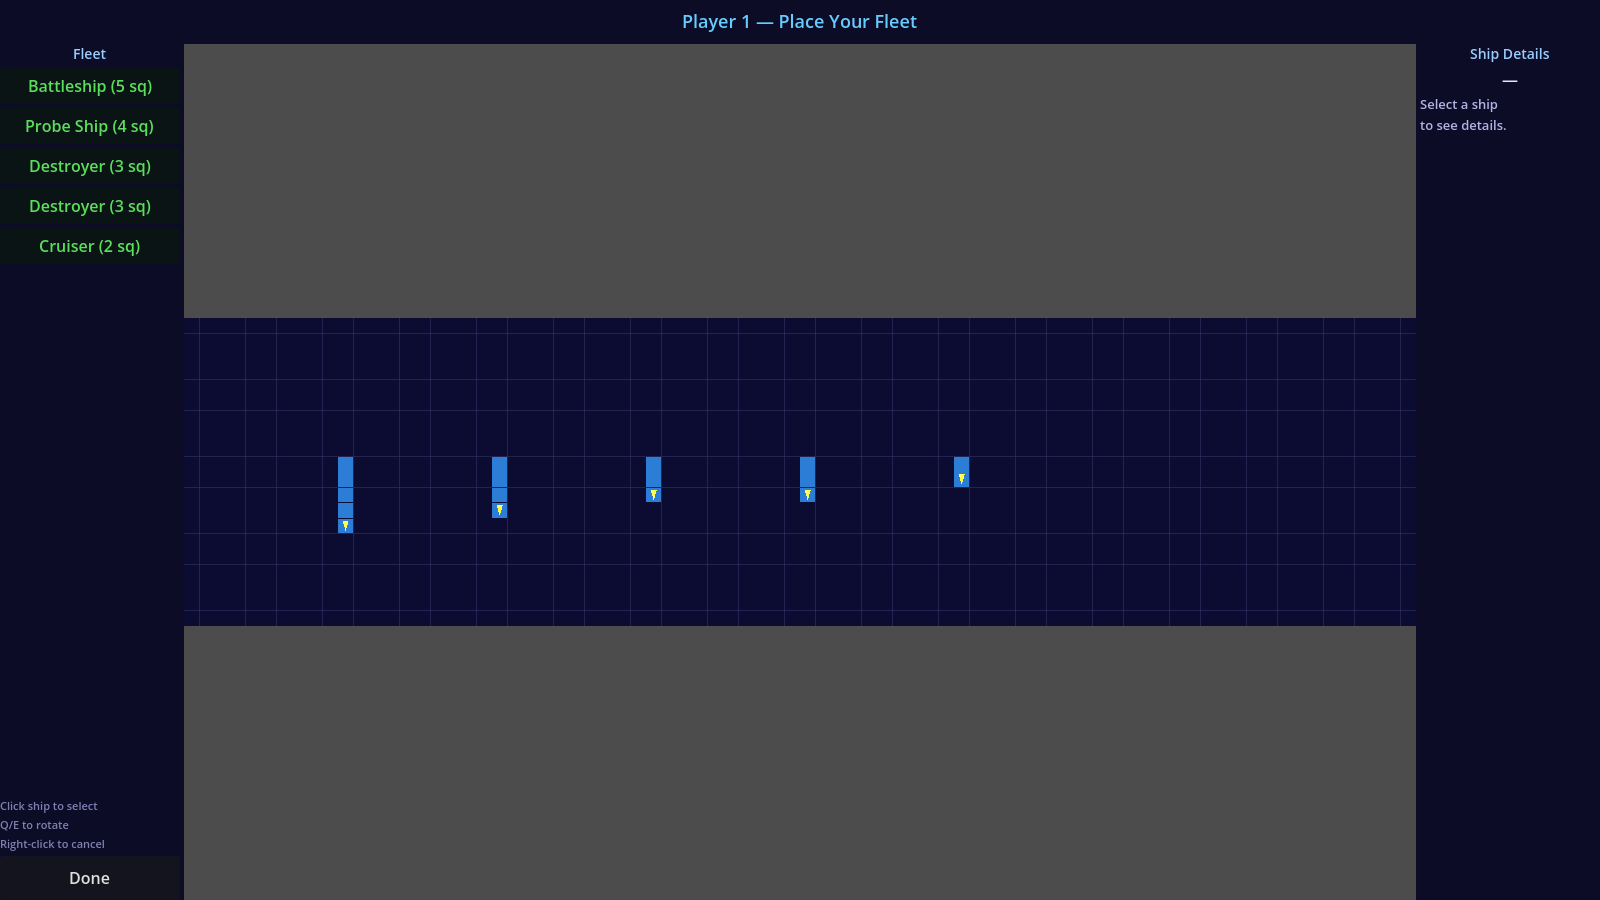
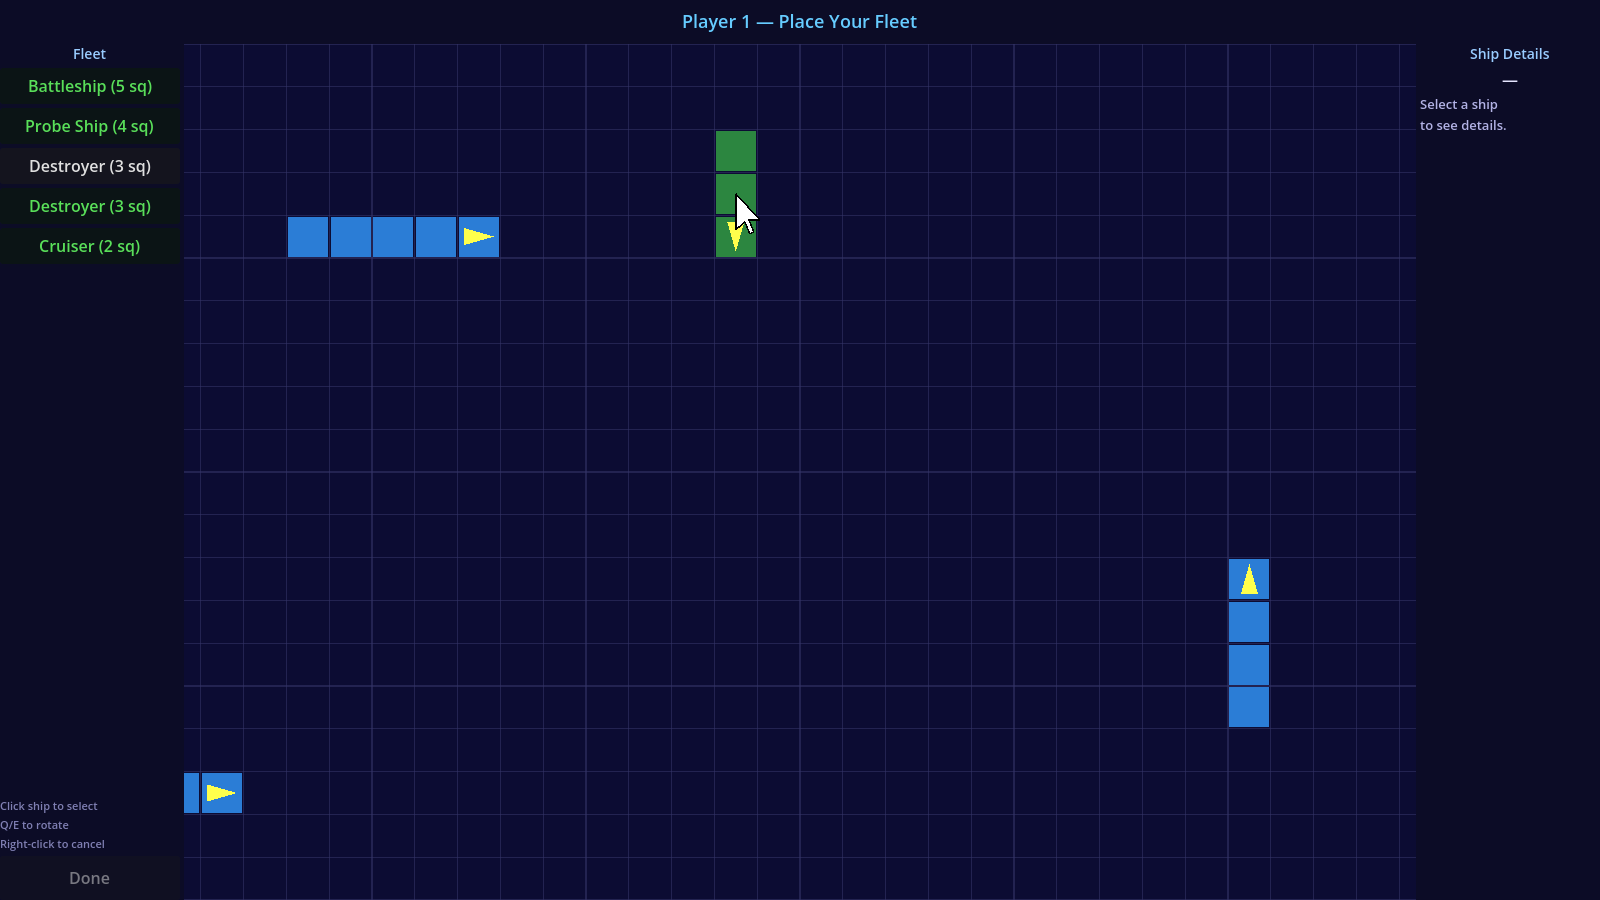
Polish How to Play pages 1-2 and add true-wrap infrastructure
Finalize the voice pass on Welcome and Place Your Fleet pages in the
Gallows Deadpan register. Replace the paged overlay's stacked
RichTextLabel layout with a custom TextWrap Control that word-wraps text
around a top-right image (Godot's RichTextLabel does not support
float-style wrap natively). Image sits at 560x315 with 16px padding.

Refresh the fleet-placement screenshot with a scattered fleet, varied
facings, zoomed-in camera, an authentic green-ghost preview for the
unplaced destroyer, and a baked-in mouse cursor sprite so the shot
reads as "in the process of placing." Screenshot runner helpers
(_screen_pos_of_grid_cell, _add_cursor_overlay, _ship_center_cell)
keep the overlay reproducible across future capture passes.

Add docs/writing-voice.md capturing the Gallows Deadpan voice profile
for Grammarly and future copy work.

diff --git a/docs/writing-voice.md b/docs/writing-voice.md
@@ -1,0 +1,41 @@
+# Writing Voice — Battlestations: Nebula
+
+Companion to `WRITING-STYLE.md`. That file covers mechanical rules (banned words, em dashes, voice rules). This file covers tone, character, and register for in-game and marketing copy.
+
+## Name
+
+**Gallows Deadpan**
+
+## Description
+
+Irreverent, chaotic, and dark, but clean enough for teenagers. The voice sounds like a world-weary narrator describing grim situations with the tone of a DMV clerk reading off a form: matter-of-fact, specific, and unimpressed with its own violence. It leans into genre-aware asides, mundane details dropped next to cosmic ones (a reconstituted turkey sandwich next to a hyperspace ambush), and rule-of-three lists where the third item undercuts the first two. It addresses the reader in second person as a participant, not a spectator.
+
+No real profanity. Comical pseudo-swears are welcome and encouraged: *fudgesicles*, *shiitake mushrooms*, *mother puss bucket*, *son of a motherless goat*, *balderdash*, *dagnabbit*, *hobknocker*. Insults should sound unhinged but lexically safe.
+
+Formality: low. Contractions always. Short punchy sentences interleaved with one longer sentence piling on concrete detail. Active voice. No corporate hedges ("may," "might consider," "it is recommended"). No therapy-speak. No em dashes.
+
+Intended audience: teen and adult players who like dark comedy, tabletop games, and LitRPG-adjacent fiction. Think Dungeon Crawler Carl readers, Terry Pratchett fans, people who laughed at the flavor text in *Hades* and *Disco Elysium*.
+
+What to avoid: sincere motivational language, earnest sci-fi grandeur, fourth-wall winks congratulating the reader, and any phrasing sounding like a tutorial written by HR.
+
+## Writing samples
+
+**Sample 1. Cold-open narration**
+
+> One minute you were cruising through hyperspace, halfway through a reconstituted turkey sandwich and a mediocre opinion about the Oort Cloud. The next, something with all the subtlety of a cosmic sledgehammer dropped your fleet into an unmapped nebula and cut your sensors like a bored god flipping a circuit breaker.
+>
+> They came back online in pieces. Long enough to spot an enemy fleet drifting in the same cosmic dishwater you are. Long enough to confirm the obvious: somebody out here has live warheads, dead morals, and the patience of a hungry mimic.
+
+**Sample 2. Mechanics explained in-voice**
+
+> A probe is a flashlight in a haunted house. It costs energy, it lights up a small box of nebula, and for two turns you can see exactly which flavor of fudgesicle is about to ruin your afternoon. Then the lights go out and the nebula hands you a souvenir: a ghost marker, pinned to the map like a Post-it reading *a ship was here once, good luck, buddy*.
+>
+> You can fire on a ghost. The enemy moved three turns ago. Your shot hits empty space. Your log says miss. The nebula, somewhere, laughs.
+
+**Sample 3. UI flavor copy, short form**
+
+> Shields take priority when energy is tight. Drag the sliders, pick your poison, and accept that shiitake mushrooms, you probably allocated wrong. That's fine. Everyone allocates wrong. The ones who don't are lying or dead.
+
+## Grammarly voice setup
+
+Paste the Name, Description, and Writing samples sections above into Grammarly's "Create a voice" feature. The three samples cover narrative prose, mechanical explanation, and short-form UI copy — enough range for Grammarly to fit the profile to most in-game and marketing contexts.
